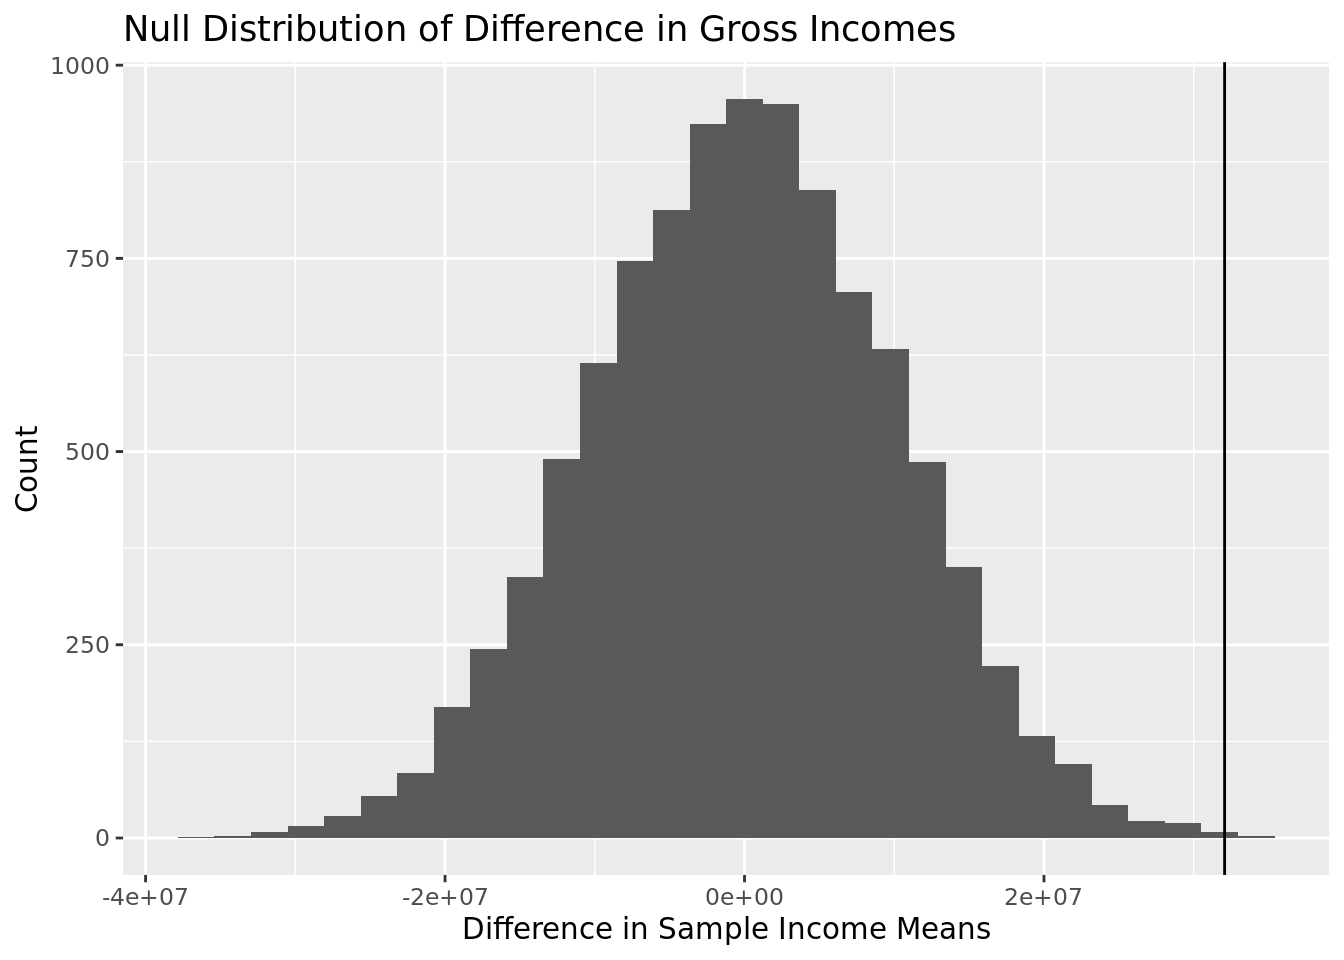
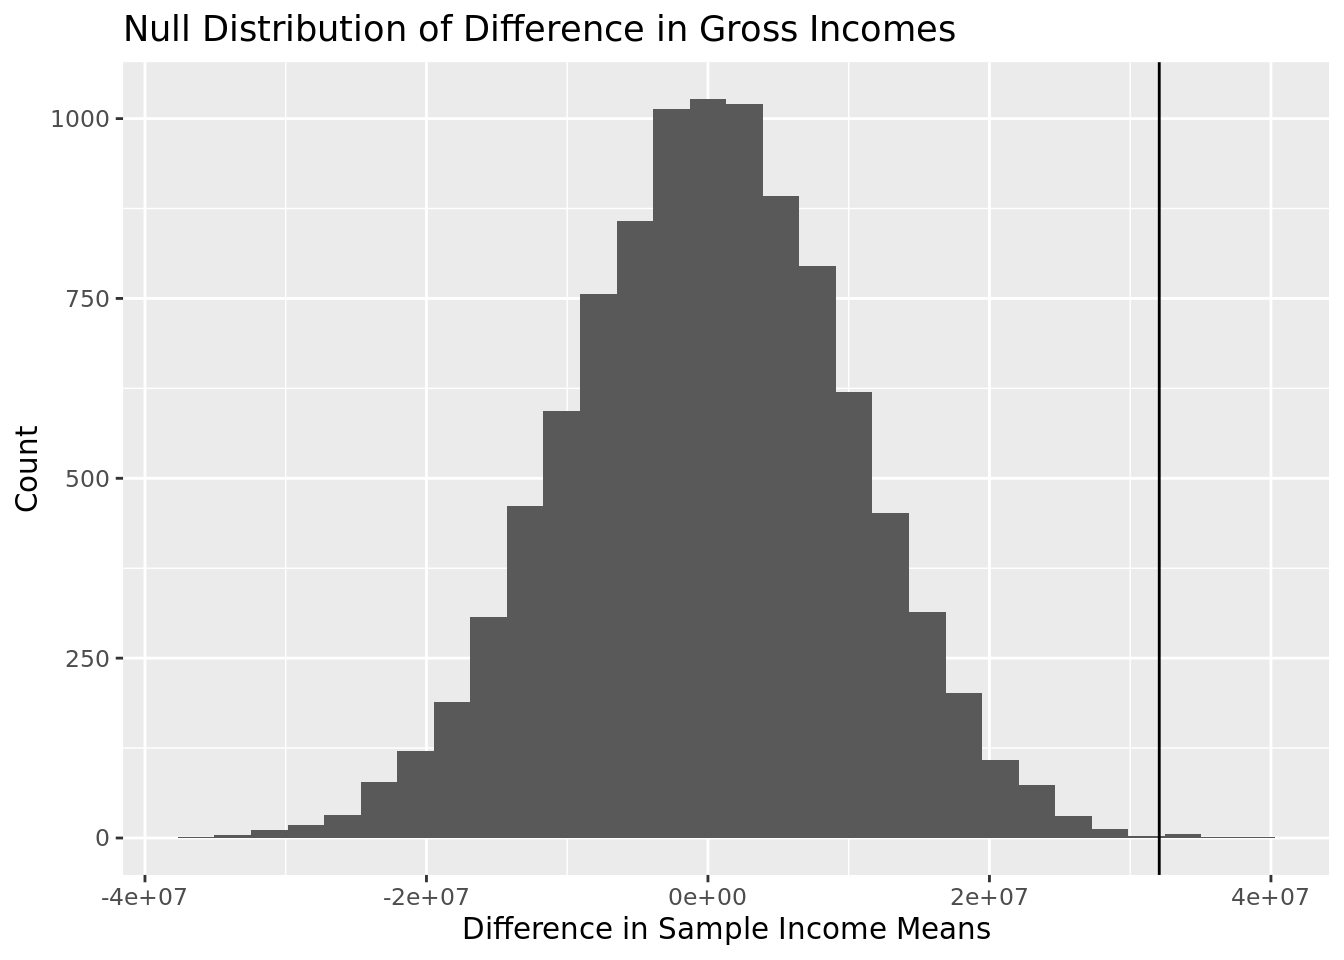
Update slides and title

diff --git a/docs/report.html b/docs/report.html
@@ -290,7 +290,7 @@ approximation based on the number of `reps` chosen in the `generate()` step. See
 <pre><code># A tibble: 1 × 1
   p_value
     &lt;dbl&gt;
-1  0.0005</code></pre>
+1  0.0007</code></pre>
 </div>
 <div class="cell-output cell-output-stderr">
 <pre><code>`stat_bin()` using `bins = 30`. Pick better value with `binwidth`.</code></pre>
